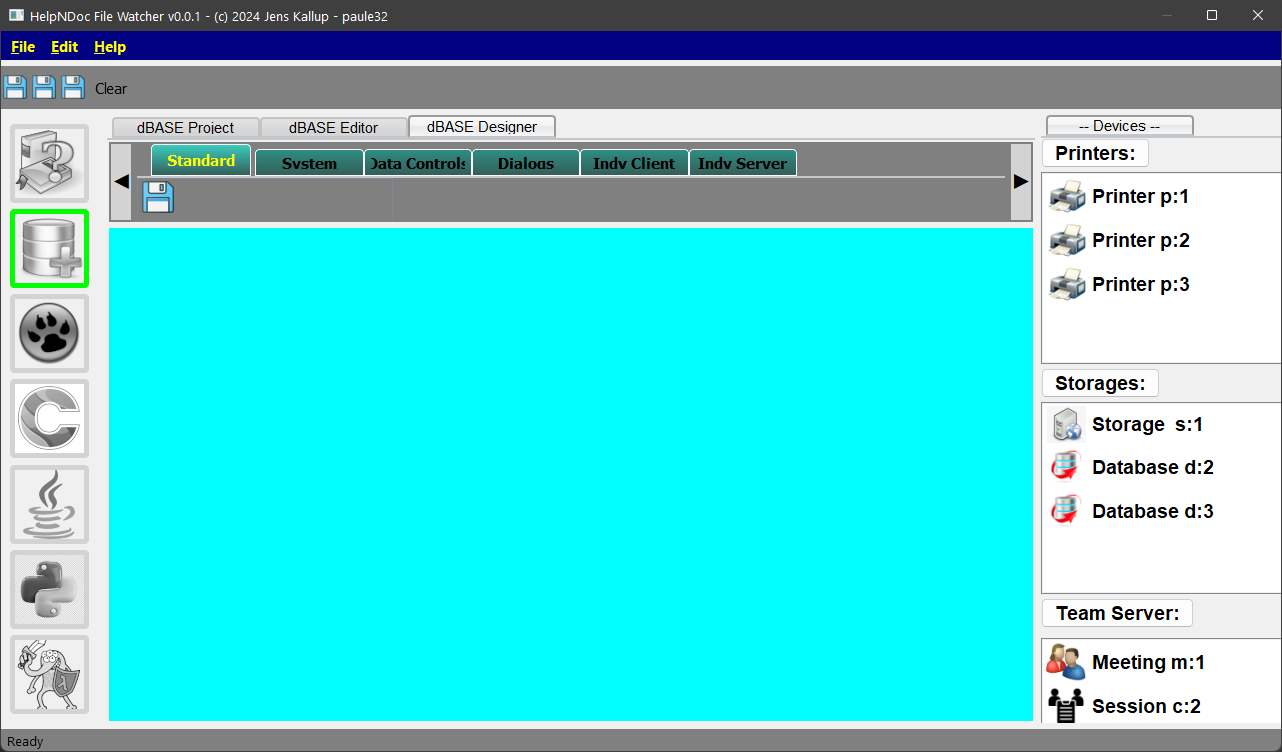
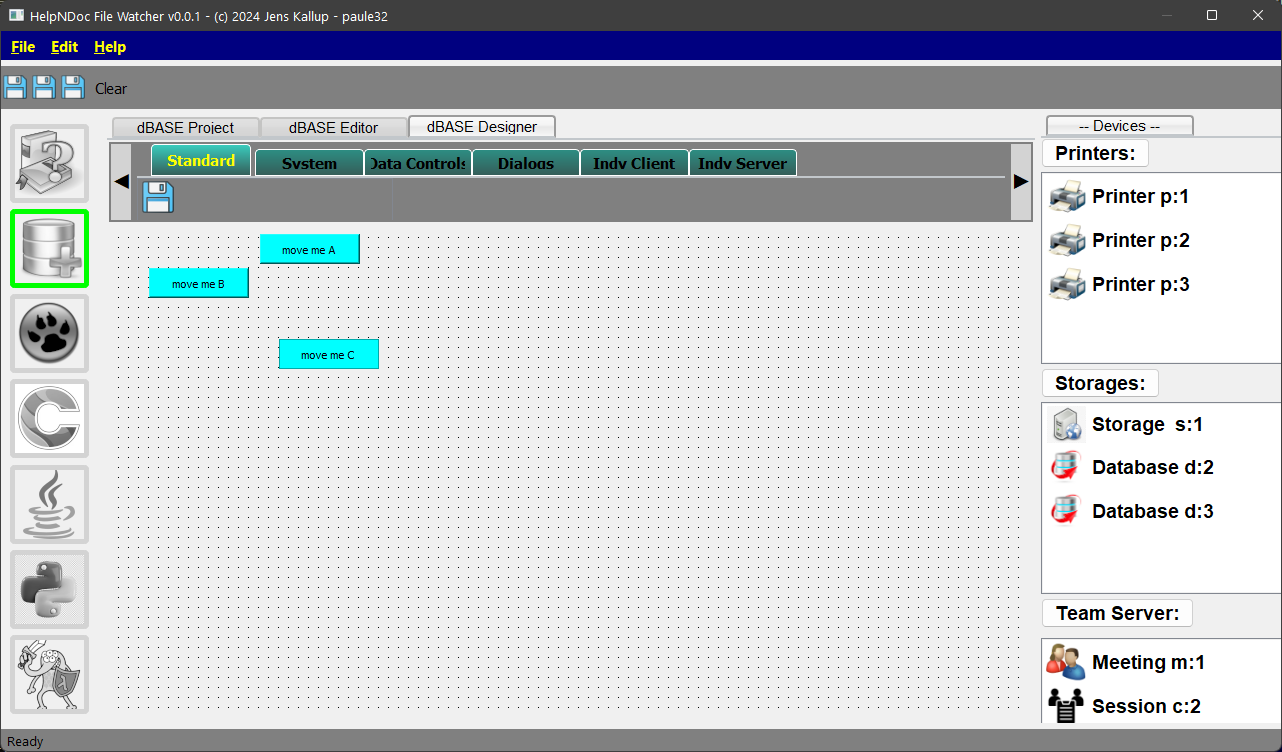
update

diff --git a/src/observer.py b/src/observer.py
@@ -2351,6 +2351,29 @@ class myExitDialog(QDialog):
     def exit_click(self):
         sys.exit(0)
 
+class myMoveButton(QPushButton):
+    def __init__(self, text, parent=None):
+        super(myMoveButton, self).__init__(text, parent)
+        
+        self.parent = parent
+        self.parent.setAcceptDrops(True)
+        
+    def mouseMoveEvent(self, event):
+        drag = QDrag(self)
+        mime = QMimeData()
+        drag.setMimeData(mime)
+        drag.exec_(Qt.MoveAction)
+    
+    def dragEnterEvent(self, event):
+        event.accept()
+        print("enter")
+    
+    def dropEvent(self, event):
+        pos = event.pos()
+        widget = event.source()
+        event.accept()
+        print("drop")
+
 class myGridViewerOverlay(QWidget):
     def __init__(self, parent=None):
         super().__init__(parent)
@@ -2364,7 +2387,7 @@ class myGridViewerOverlay(QWidget):
         points      = []
         gridSize    = 10
         
-        x      = y  = -9
+        x      = y  = -10
         
         width  = self.width()
         height = self.height()
@@ -2382,12 +2405,25 @@ class myGridViewer(QWidget):
     def __init__(self, parent=None):
         super().__init__(parent)
         
-        self.layout = QVBoxLayout()
+        dbase_btn1_dragging = False
+        
+        self.layout    = QVBoxLayout()
         self.container = QScrollArea()
-        self.contentWidget = myGridViewerOverlay()
+        self.contentWidget = myGridViewerOverlay(self)
         self.layout.addWidget(self.contentWidget)
         
         self.setLayout(self.layout)
+        
+    def dragEnterEvent(self, event):
+        event.accept()
+        
+    def dropEvent(self, event):
+        pos = event.pos()
+        widget = event.source()
+        widget.move(pos.x(), pos.y())
+        
+        event.accept()
+
 
 class FileWatcherGUI(QDialog):
     def __init__(self):
@@ -2748,6 +2784,15 @@ class FileWatcherGUI(QDialog):
         self.dbase_tabs_designs_widget.setLayout(self.dbase_designs_layout)
         ####
         self.main_layout.addWidget(self.dbase_tabs)
+        #################
+        self.dbase_btn1 = myMoveButton("move me A", self.dbase_designs_viewer)
+        self.dbase_btn2 = myMoveButton("move me B", self.dbase_designs_viewer)
+        self.dbase_btn3 = myMoveButton("move me C", self.dbase_designs_viewer)
+        #
+        self.dbase_btn1.move(20,20)
+        self.dbase_btn2.move(40,40)
+        self.dbase_btn3.move(60,60)
+        
         
         # pascal
         self.pascal_tabs = QTabWidget()
@@ -2838,6 +2883,14 @@ class FileWatcherGUI(QDialog):
         self.pascal_tabs_designs_widget.setLayout(self.pascal_designs_layout)
         ####
         self.main_layout.addWidget(self.pascal_tabs)
+        #################
+        self.pascal_btn1 = myMoveButton("move me D", self.pascal_designs_viewer)
+        self.pascal_btn2 = myMoveButton("move me E", self.pascal_designs_viewer)
+        self.pascal_btn3 = myMoveButton("move me F", self.pascal_designs_viewer)
+        #
+        self.pascal_btn1.move(120,20)
+        self.pascal_btn2.move(140,40)
+        self.pascal_btn3.move(160,60)
         
         # isoc
         self.isoc_tabs = QTabWidget()
